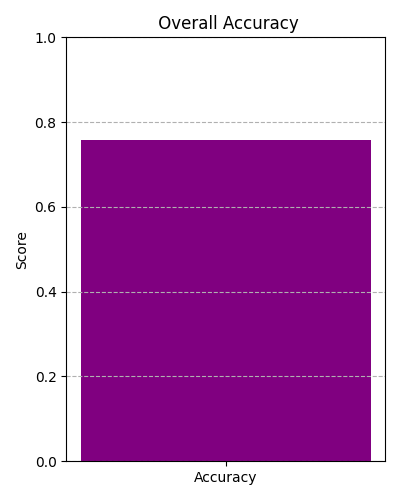
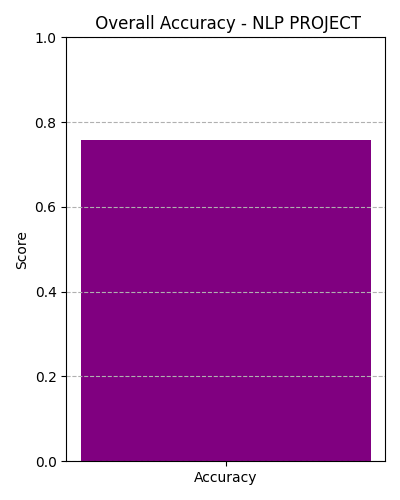
Update: Improved README and updated scripts and figures

Changed region(s): [[0.24, 0.03, 0.9, 0.06]]

diff --git a/scripts/classfier.py b/scripts/classfier.py
@@ -78,7 +78,7 @@ plt.bar(x + width, data['f1-score'], width, label='F1-Score', color='green')
 plt.xticks(x, labels)
 plt.ylim(0, 1)
 plt.ylabel("Score")
-plt.title(" Class-wise Metrics")
+plt.title(" Class-wise Metrics - NLP PROJECT")
 plt.grid(axis='y', linestyle='--')
 plt.legend()
 plt.tight_layout()
@@ -89,7 +89,7 @@ plt.show()
 plt.figure(figsize=(4, 5))
 plt.bar(["Accuracy"], [accuracy], color="purple")
 plt.ylim(0, 1)
-plt.title(" Overall Accuracy")
+plt.title(" Overall Accuracy - NLP PROJECT")
 plt.ylabel("Score")
 plt.grid(axis="y", linestyle="--")
 plt.tight_layout()
@@ -102,7 +102,7 @@ plt.figure(figsize=(8, 6))
 sns.heatmap(cm, annot=True, fmt="d", cmap="Blues", xticklabels=labels, yticklabels=labels)
 plt.xlabel("Predicted")
 plt.ylabel("Actual")
-plt.title(" Confusion Matrix")
+plt.title(" Confusion Matrix - NLP PROJECT")
 plt.tight_layout()
 plt.savefig(os.path.join(FIGURE_DIR, "confusion_matrix.png"))
 plt.show()

diff --git a/README.md b/README.md
@@ -1,3 +1,4 @@
+<<<<<<< HEAD
 
 # Amharic News Classifier - BBC Dataset
 ```
@@ -80,6 +81,87 @@ python classifier.py
 python UI_testing_with_model.py
 ```
 
+=======
+
+# Amharic News Classifier - BBC Dataset
+```
+This project is a machine learning-based text classifier that categorizes Amharic news articles into four distinct categories: 
+1, Health,
+2, Politics,
+3, Sport, and
+4, Technology.
+
+The classifier is trained using an enhanced dataset sourced from BBC Amharic news, with 250 labeled articles per categor - if we need more accurate one we can add more data by scrapping - means by adding page
+number to be scraped.
+
+project is requested by HILCOE school NLP subject.
+```
+##  Features
+```
+- Classifies Amharic news articles into 4 categories.
+- Enhanced with an expanded dataset for better generalization.
+- Evaluation using accuracy, precision, recall, F1-score, and confusion matrix.
+- Visual performance metrics included.
+```
+##  Project Structure
+```
+NLP/
+├── data/
+│   └── bbc_amharic_dataset_300+.csv     ← Cleaned dataset
+├── models/
+│   ├── amharic_news_classifier_300+.pkl ← Trained Logistic Regression model
+│   └── tfidf_vectorizer_300+.pkl        ← TF-IDF vectorizer used for text features
+├── figures/
+│   ├── accuracy_bar.png                 ← Bar chart of overall accuracy
+│   ├── classwise_metrics.png            ← Precision, Recall, F1 per class
+│   └── confusion_matrix.png             ← Heatmap of classification errors
+├── scripts/
+│   ├── classifier.py                    ← Trains model and generates visual metrics
+│   ├── import_requests_for_more_than_300_articles.py ← Scrapes BBC Amharic site
+│   └── UI_testing_with_model.py         ← Predicts category using saved model
+├── docs/
+│   └── NLP_Projects_Guide.pdf           ← Project guide or instructions
+├── requirements.txt                     ← Python dependencies
+├── LICENSE                              ← License info
+└── README.md                            ← You’re here!
+```
+---
+
+##  Performance Results
+
+##  Overall Accuracy
+
+![Accuracy](figures/accuracy_bar.png)
+
+##  Class-wise Metrics
+
+![Class Metrics](figures/classwise_metrics.png)
+
+##  Confusion Matrix
+
+![Confusion Matrix](figures/confusion_matrix.png)
+
+##  Installation
+```
+1. Clone the repository:
+
+git clone https://github.com/NuryeNigusMekonen/amharic-news-classifier-in-bbc.git
+cd amharic-news-classifier-in-bbc
+
+3. Install dependencies:
+
+pip install -r requirements.txt
+```
+##  How to Run
+```
+### Train the Classifier:
+python classifier.py
+
+### Test on Sample Data:
+python UI_testing_with_model.py
+```
+
+>>>>>>> 2394d3d (Update: Improved README and updated scripts and figures)
 ##  Author
 ```
 👤 Author
